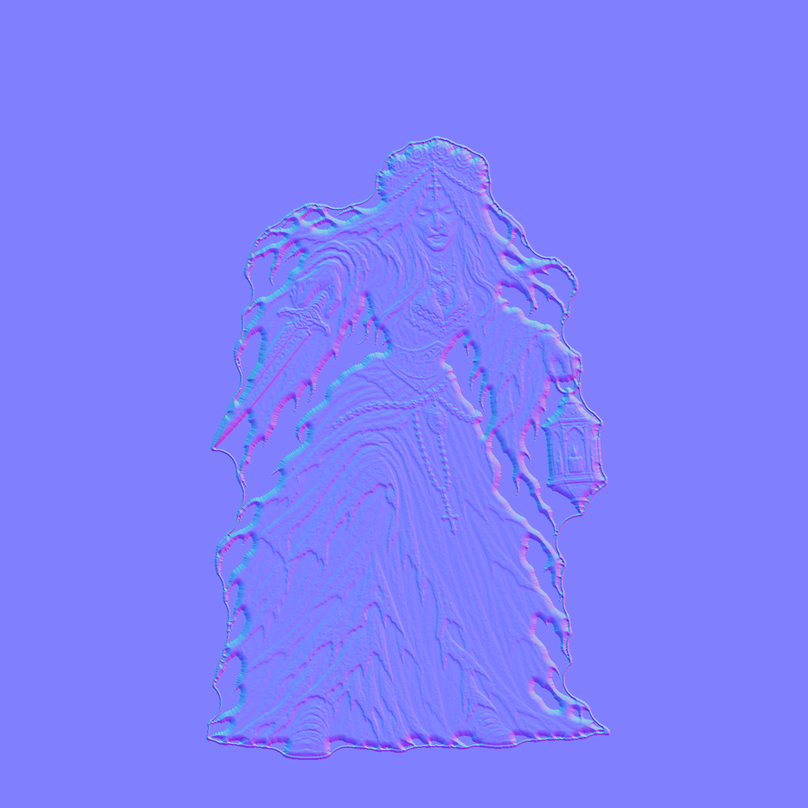
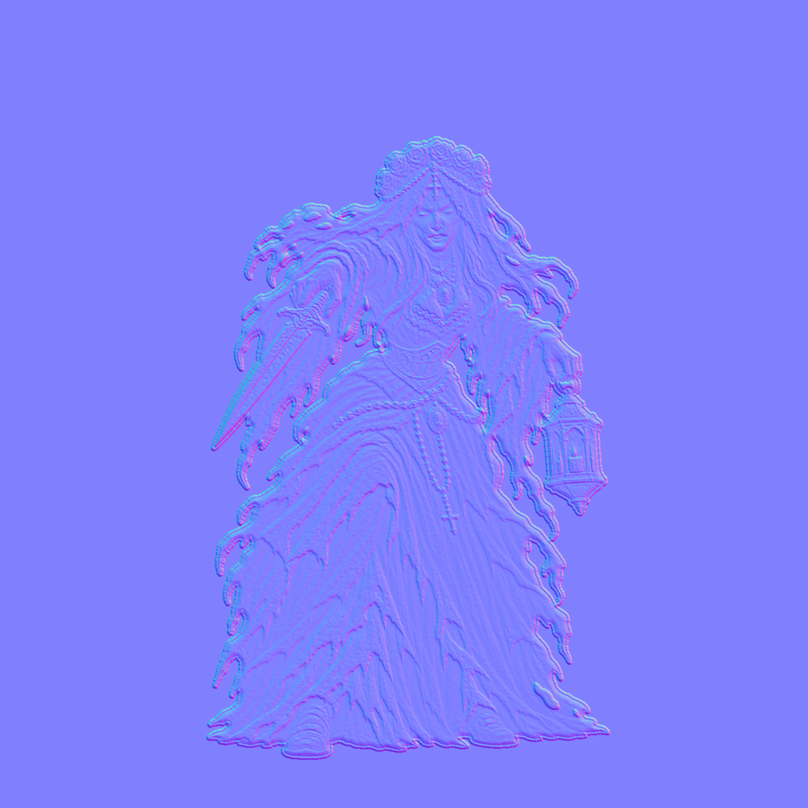
Revert "Veuve M03 : liseré en enveloppe fermée (aucun blanc dans les trous du lambeau ni entre les bras), option --liseré-trou"
This reverts commit 939e0e78ca4b3a09682289b843d4c0b2e3b0d35d.

Changed region(s): [[0.2475, 0.1547, 0.7116, 0.9282], [0.526, 0.4022, 0.7426, 0.9282], [0.4022, 0.8973, 0.5879, 0.9282]]

diff --git a/tools/make_monster.py b/tools/make_monster.py
@@ -34,7 +34,6 @@ ERODE = 2           # px retirés ensuite (reste de liseré gris)
 FEATHER = 1.0       # px de dégradé du bord
 KEEP_OUTLINE = True  # liseré blanc conservé (voulu) ; --sans-liseré pour le retirer
 SCALES_OVERRIDE = None  # échelles imposées (--echelles=...) ; None = estimation SIFT
-GAP_PX = 45          # liseré uniforme : enveloppe fermée de rayon GAP_PX px, pas de blanc dans les vides plus étroits que 2 × GAP_PX px (--liseré-trou=N, 0 = liseré partout)
 UNIFORM_PX = 0       # > 0 : liseré d'origine remplacé par un liseré blanc de cette épaisseur (--liseré-uniforme)
 FLOOR = 0.94        # position des pieds dans le carré (fraction de la hauteur)
 MARGIN = 0.03       # marge minimale autour de la pose la plus grande
@@ -144,13 +143,6 @@ def uniform_outline(rgb, solid, px):
         touch = np.unique(wl[ndi.binary_dilation(removed, iterations=2) & blob])
         wsz = ndi.sum(blob, wl, range(1, wn + 1))
         removed |= np.isin(wl, [i for i in touch if i and wsz[i - 1] < 1500])
-    # trous du tissu remplis de blanc par l'illustration : aplats d'un blanc franc (≥ 60 px) → retirés (le dessin garde son propre trait noir)
-    strict = (rgb.min(-1) > 0.92) & ((rgb.max(-1) - rgb.min(-1)) < 0.08) & solid & ~removed
-    sl, sn = ndi.label(strict)
-    if sn:
-        ssz = ndi.sum(strict, sl, range(1, sn + 1))
-        core = np.isin(sl, [i + 1 for i, z in enumerate(ssz) if z >= 60])
-        removed |= ndi.binary_dilation(core, iterations=3) & whitish & solid
     inner = solid & ~removed
     lab, n = ndi.label(inner)
     if n > 1:
@@ -158,21 +150,6 @@ def uniform_outline(rgb, solid, px):
         inner = np.isin(lab, [i + 1 for i, z in enumerate(sz) if z > 300])
     dist = ndi.distance_transform_edt(~inner)
     alpha = np.where(inner, 1.0, np.clip(px + 0.5 - dist, 0, 1)).astype(np.float32)
-    # le liseré ne fait que le tour du personnage : les trous fermés (sans lien avec l'extérieur) restent transparents, sans liseré
-    vide, vn = ndi.label(~inner)
-    if vn > 1:
-        bord = np.unique(np.concatenate([vide[0], vide[-1], vide[:, 0], vide[:, -1]]))
-        alpha[(vide > 0) & ~np.isin(vide, bord)] = 0
-    # ... et les vides étroits ouverts sur l'extérieur (entre les mèches du lambeau, entre un bras et le corps) n'en ont pas non plus : on ferme la
-    # silhouette (fermeture morphologique de rayon GAP_PX : dilatation puis érosion) et le liseré suit cette enveloppe (il enjambe les vides étroits)
-    if GAP_PX > 0:
-        g = GAP_PX
-        pad = np.pad(inner, g + 2)
-        dil = ndi.distance_transform_edt(~pad) <= g
-        ferme = (ndi.distance_transform_edt(dil) > g) | pad
-        ferme = ferme[g + 2:-(g + 2), g + 2:-(g + 2)]
-        dist_env = ndi.distance_transform_edt(~ferme)       # le liseré suit l'enveloppe : il enjambe les vides étroits au lieu d'y entrer
-        alpha = np.where(inner, 1.0, np.where(ferme, 0.0, np.clip(px + 0.5 - dist_env, 0, 1))).astype(np.float32)
     out = np.where(inner[..., None], rgb, 1.0).astype(np.float32)     # liseré : blanc pur, prolongé en blanc au-delà (pas de frange aux mipmaps)
     return out, alpha
 
@@ -241,15 +218,12 @@ def stats(alpha):
                 cx=float((xs * w).sum() / w.sum()))
 
 def main():
-    global KEEP_OUTLINE, UNIFORM_PX, SCALES_OVERRIDE, GAP_PX
+    global KEEP_OUTLINE, UNIFORM_PX, SCALES_OVERRIDE
     if "--sans-liseré" in sys.argv:
         sys.argv.remove("--sans-liseré"); KEEP_OUTLINE = False
     for a in list(sys.argv):
         if a.startswith("--echelles="):
             sys.argv.remove(a); SCALES_OVERRIDE = [float(x) for x in a.split("=")[1].split(",")]; assert len(SCALES_OVERRIDE) == 5
-    for a in list(sys.argv):
-        if a.startswith("--liseré-trou="):
-            sys.argv.remove(a); GAP_PX = int(a.split("=")[1])
     for a in list(sys.argv):
         if a.startswith("--liseré-uniforme"):
             sys.argv.remove(a); UNIFORM_PX = int(a.split("=")[1]) if "=" in a else 5

diff --git a/docs/TECHNIQUE.md b/docs/TECHNIQUE.md
@@ -535,4 +535,4 @@ Après TripoSR, `Converter._bake_command` copie `res://tools_py/bake_texture.py`
 - Netteté des monstres Atlas Noir en jeu (2026-10-31) : à 1440p le sprite s'affiche 2,5 à 3 fois plus petit que son image ; les mipmaps de Godot (filtre boîte) le rendaient flou (netteté mesurée ≈ 50 % d'une vraie réduction sur le banc d'essai `tools/sprite_lab.gd`, ≈ 21 % en jeu). Des mipmaps recalculées en Lanczos n'y changent rien ; le biais de mipmap de la vue 3D est ignoré par le moteur Compatibilité. Remède : `AtlasSpriteMaterial` (shader, mêmes propriétés que le StandardMaterial3D : billboard, alpha, éclairage par pixel, auto-éclairage, normales, liseré de lumière) avec `texture(tex, uv, -1.0)`. Éclairage identique à l'ancien (luminance et couleur moyennes mesurées), netteté en jeu ×1,8 (0,21 → 0,37 de l'idéal à l'échelle de rendu 1,25 ; 0,24 → 0,6 à l'échelle 1,0). Interrupteur de comparaison `EntityLayer.atlas_shader`, biais `AtlasSpriteMaterial.lod_bias` (-1,0 ; en deçà de -0,75 le crépitement peut apparaître en mouvement). Constat : l'échelle de rendu 3D de 1,25 (suréchantillonnage) adoucit les sprites par rapport à 1,0.
 - Taille d'affichage et adaptation à l'écran (2026-10-31) : la Veuve (736 px affichée sur 616 px, réduction ×1,2) paraissait plus nette que M01 (1728 px sur 531 px, ×3,3). Deux remèdes : (1) `veilleur_m01` passe à 1,7 dans `MON_HEIGHTS` (≈ 1,9 m, comme la Veuve) ; (2) `EntityLayer._fit_texture` réduit chaque image Atlas UNE fois, au chargement, en Lanczos, à `FIT_MARGIN` (1,15) × sa taille d'affichage à une case de distance sur l'écran du joueur (`FIT_FRAC` = 0,189 hauteur d'écran par mètre de monde, mesuré en 1440p sur trois monstres), jamais agrandie. Mesuré : carré de M01 affiché sur 451 / 602 / 902 px à 1080p / 1440p / 2160p pour des textures de 519 / 692 / 1038 px (réduction ×1,15 partout). Coût : ≈ 95 ms par image, d'où `warm_poses` (toutes les poses construites à la création du sprite, pas à la première attaque). Mémoire vidéo de M01 à 1440p : ≈ 6 fois moindre. Gain de netteté en image fixe modeste (erreur moyenne vs réduction idéale 5,79 contre 6,08 sans adaptation ; la mesure par variance du laplacien, elle, baisse, car l'ancienne version crépitait) : l'essentiel du gain vient de la taille à l'écran et du biais de mipmap. Interrupteurs des outils de capture : `fit=0`, `fit=<hauteur d'écran>`. La netteté tient surtout au dessin (traits épais, tête grande, peu de micro-texture) : à demander dans le prompt.
 - Fossoyeur sans visage M02 (`mon_fossoyeur`, 2026-10-31) : remplacé par cinq nouvelles images (1024×1536, nouveau prompt), importées avec `--liseré-uniforme=5` (liseré blanc de 5 px sur les cinq poses). Carré de 1568 px, pose d'attente haute de 1425 px (0,909) ; la pose « attaque alternative » est remise à l'échelle (×0,958). Ligne `fossoyeur` de `MON_HEIGHTS` : 1,5 (≈ 1,77 m, comme l'ancien) ; buste `[0.492, 0.16, 0.13]`. Résistances et effets inchangés.
-- Veuve des Cryptes M03 (`mon_veuve`) : remplacée par la nouvelle génération (épousée humaine, même id, même nom, mêmes résistances). Importée avec `--liseré-uniforme=5` et `--echelles=1.000,0.834,0.876,0.894,1.000` calculées par `tools/estimate_scales.py` (appariement SIFT de toutes les paires de poses ; l'appariement direct à l'attente échouait pour l'attaque, l'attaque alternative et la mort). Carré 1616 px, attente 1459 px. Ordre des images : repos, attaque, coup reçu, attaque alternative, mort ; l'attribution attaque / attaque alternative a été choisie d'après le contenu. L'échelle de la pose de mort reste à 1,0 (aucune paire fiable) : à contrôler à l'œil. Hauteur en jeu `veuve` 1.66, médaillon `[0.507, 0.155, 0.115]`. Liseré : enveloppe fermée (fermeture morphologique de 45 px, option `--liseré-trou=N`) : il suit le tour du personnage et enjambe les vides étroits, aucun blanc dans les trous du lambeau ni entre un bras et le corps.
+- Veuve des Cryptes M03 (`mon_veuve`) : remplacée par la nouvelle génération (épousée humaine, même id, même nom, mêmes résistances). Importée avec `--liseré-uniforme=5` et `--echelles=1.000,0.834,0.876,0.894,1.000` calculées par `tools/estimate_scales.py` (appariement SIFT de toutes les paires de poses ; l'appariement direct à l'attente échouait pour l'attaque, l'attaque alternative et la mort). Carré 1616 px, attente 1459 px. Ordre des images : repos, attaque, coup reçu, attaque alternative, mort ; l'attribution attaque / attaque alternative a été choisie d'après le contenu. L'échelle de la pose de mort reste à 1,0 (aucune paire fiable) : à contrôler à l'œil. Hauteur en jeu `veuve` 1.66, médaillon `[0.507, 0.155, 0.115]`.
